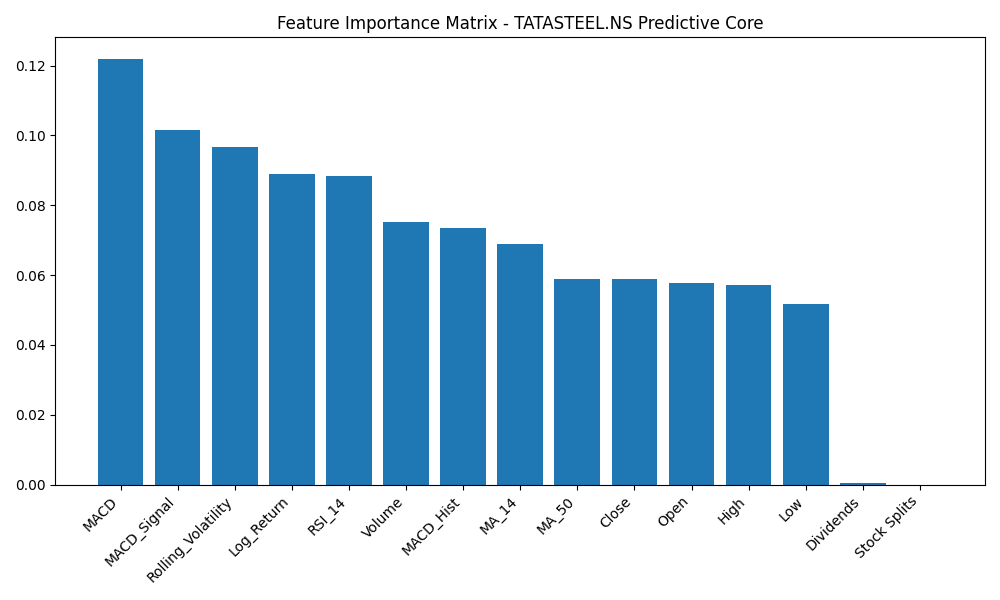
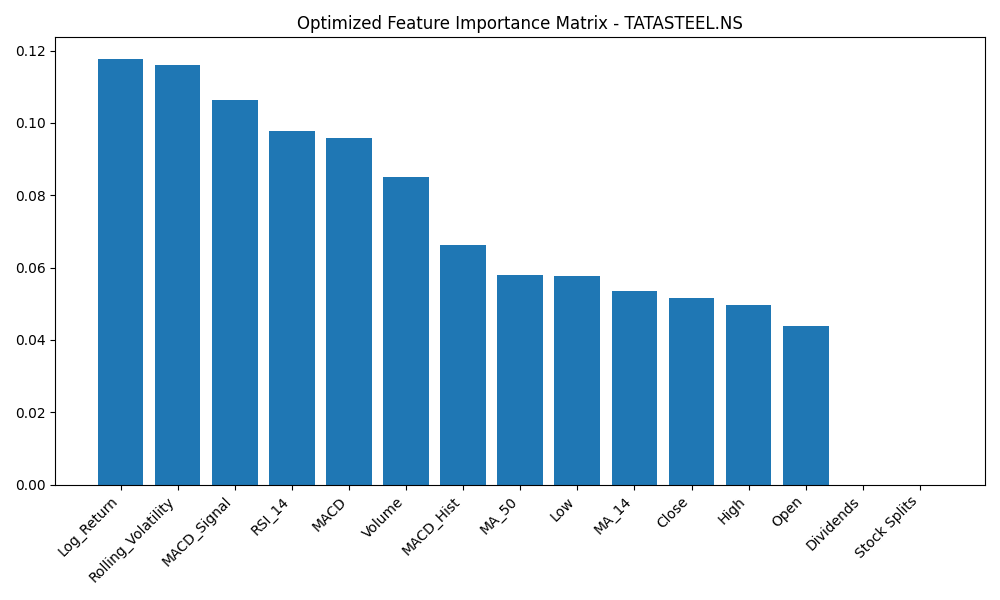
feat: implement GridSearchCV automated hyperparameter tuning to optimize backtest returns

diff --git a/src/models/train_model.py b/src/models/train_model.py
@@ -4,49 +4,58 @@ import numpy as np
 import matplotlib.pyplot as plt
 from sklearn.ensemble import RandomForestClassifier
 from sklearn.metrics import accuracy_score
+from sklearn.model_selection import GridSearchCV
 from src.utils.logger import get_logger
 from src.models.preprocess import prepare_model_data
 
 logger = get_logger("ModelTraining")
 
 def train_momentum_model(feature_filepath: str, stock_name: str):
-   
-    logger.info(f"🤖 Initializing Machine Learning pipeline for {stock_name}...")
     
-
+    logger.info(f"🤖 Initializing Hyperparameter Tuning Pipeline for {stock_name}...")
+    
     X_train, X_test, y_train, y_test, feature_names = prepare_model_data(feature_filepath, target_col='Log_Return')
-    
     
     y_train_binary = np.where(y_train > 0, 1, 0)
     y_test_binary = np.where(y_test > 0, 1, 0)
     
-    model = RandomForestClassifier(n_estimators=100, max_depth=5, random_state=42)
-    logger.info("🏋️ Training Random Forest Classifier...")
-    model.fit(X_train, y_train_binary)
+    
+    param_grid = {
+        'n_estimators': [50, 100, 150],
+        'max_depth': [3, 5, 7],
+        'min_samples_split': [2, 5, 10]
+    }
+    
+    rf = RandomForestClassifier(random_state=42)
     
     
-    predictions = model.predict(X_test)
+    grid_search = GridSearchCV(estimator=rf, param_grid=param_grid, cv=3, scoring='accuracy', n_jobs=-1)
+    grid_search.fit(X_train, y_train_binary)
+    
+    best_model = grid_search.best_estimator_
+    logger.info(f"⚙️ Best Parameters Found: {grid_search.best_params_}")
+    
+   
+    predictions = best_model.predict(X_test)
     accuracy = accuracy_score(y_test_binary, predictions)
-    logger.info(f"📊 {stock_name} Test Set Directional Accuracy: {accuracy * 100:.2f}%")
+    logger.info(f"📊 {stock_name} Optimized Directional Accuracy: {accuracy * 100:.2f}%")
     
- 
-    importances = model.feature_importances_
+   
+    importances = best_model.feature_importances_
     indices = np.argsort(importances)[::-1]
     
     plt.figure(figsize=(10, 6))
-    plt.title(f"Feature Importance Matrix - {stock_name} Predictive Core")
+    plt.title(f"Optimized Feature Importance Matrix - {stock_name}")
     plt.bar(range(X_train.shape[1]), importances[indices], align="center", color="#1f77b4")
     plt.xticks(range(X_train.shape[1]), [feature_names[i] for i in indices], rotation=45, ha='right')
     plt.tight_layout()
-    
     
     os.makedirs("data/plots", exist_ok=True)
     plot_path = f"data/plots/{stock_name}_feature_importance.png"
     plt.savefig(plot_path)
     plt.close()
-    logger.info(f"📉 Analytical chart committed to storage: {plot_path}\n")
     
-    return model
+    return best_model
 
 if __name__ == "__main__":
     stocks = ["TATASTEEL.NS", "RELIANCE.NS"]